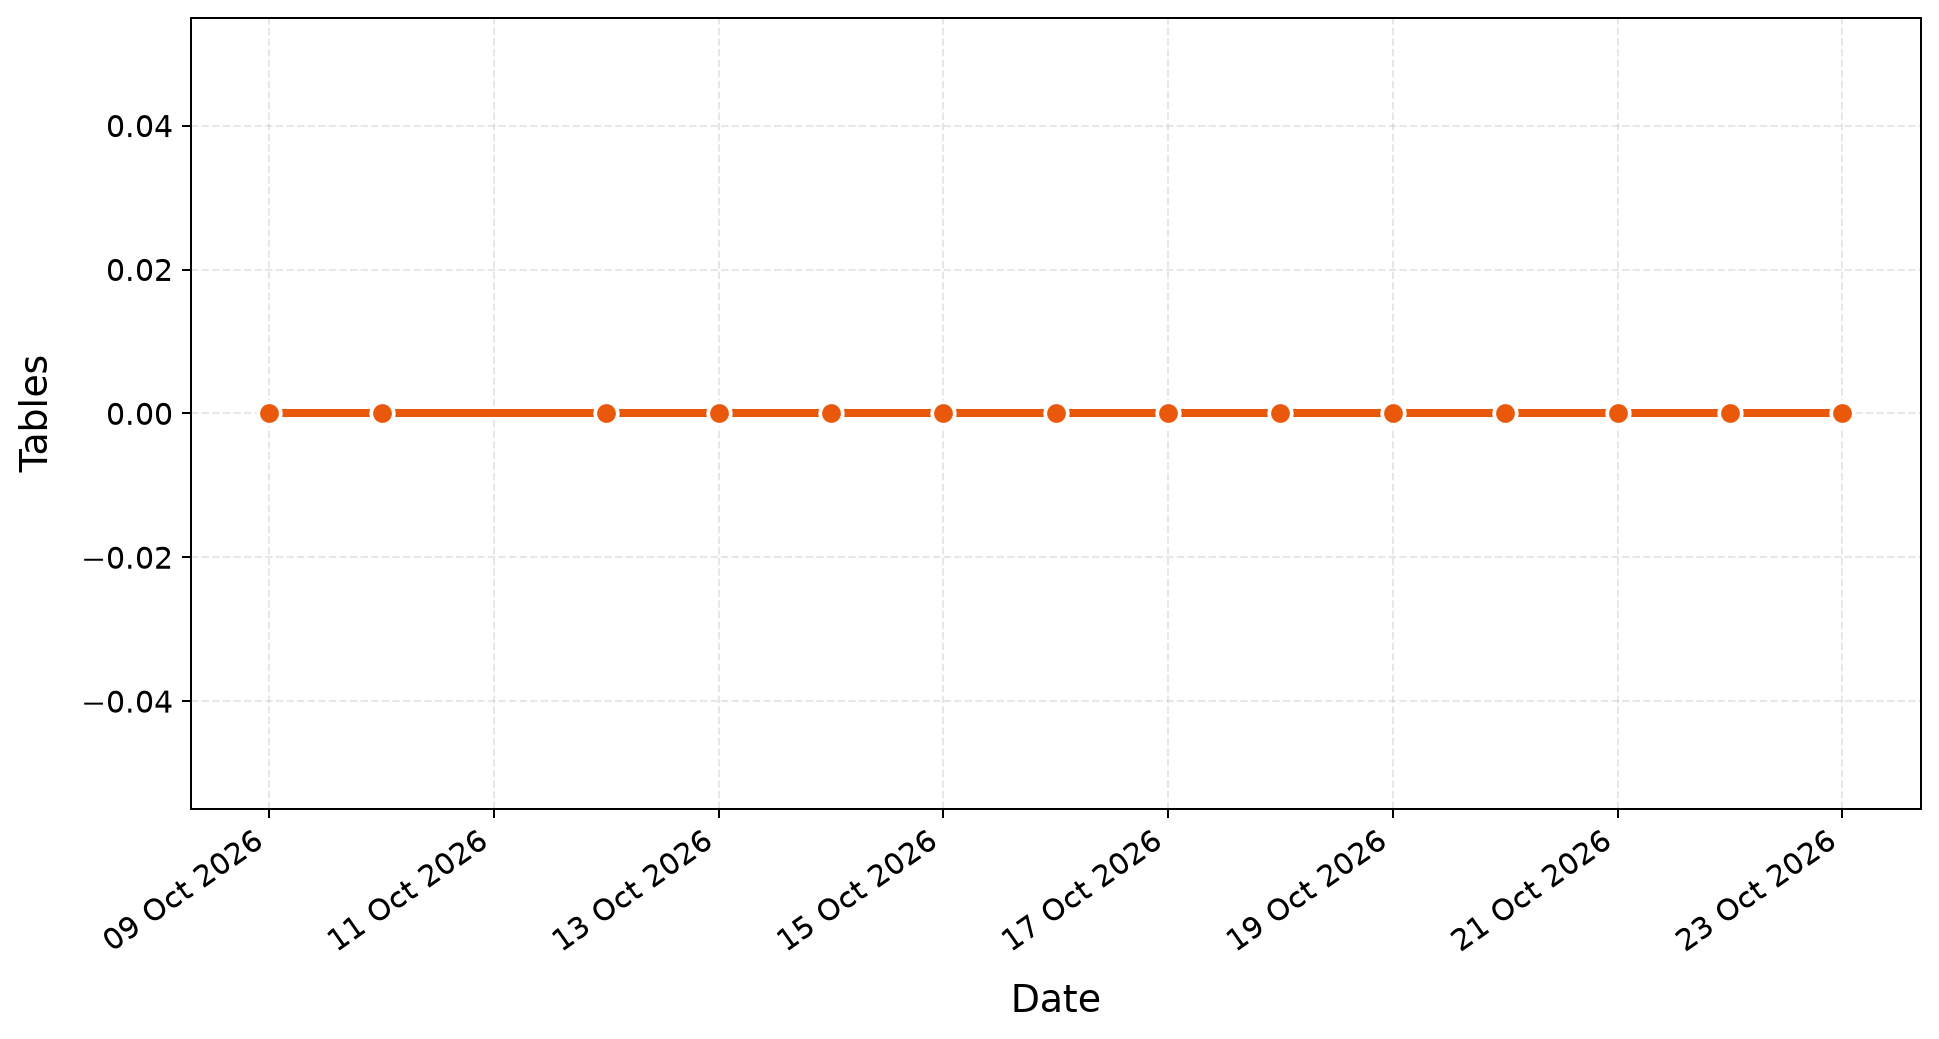
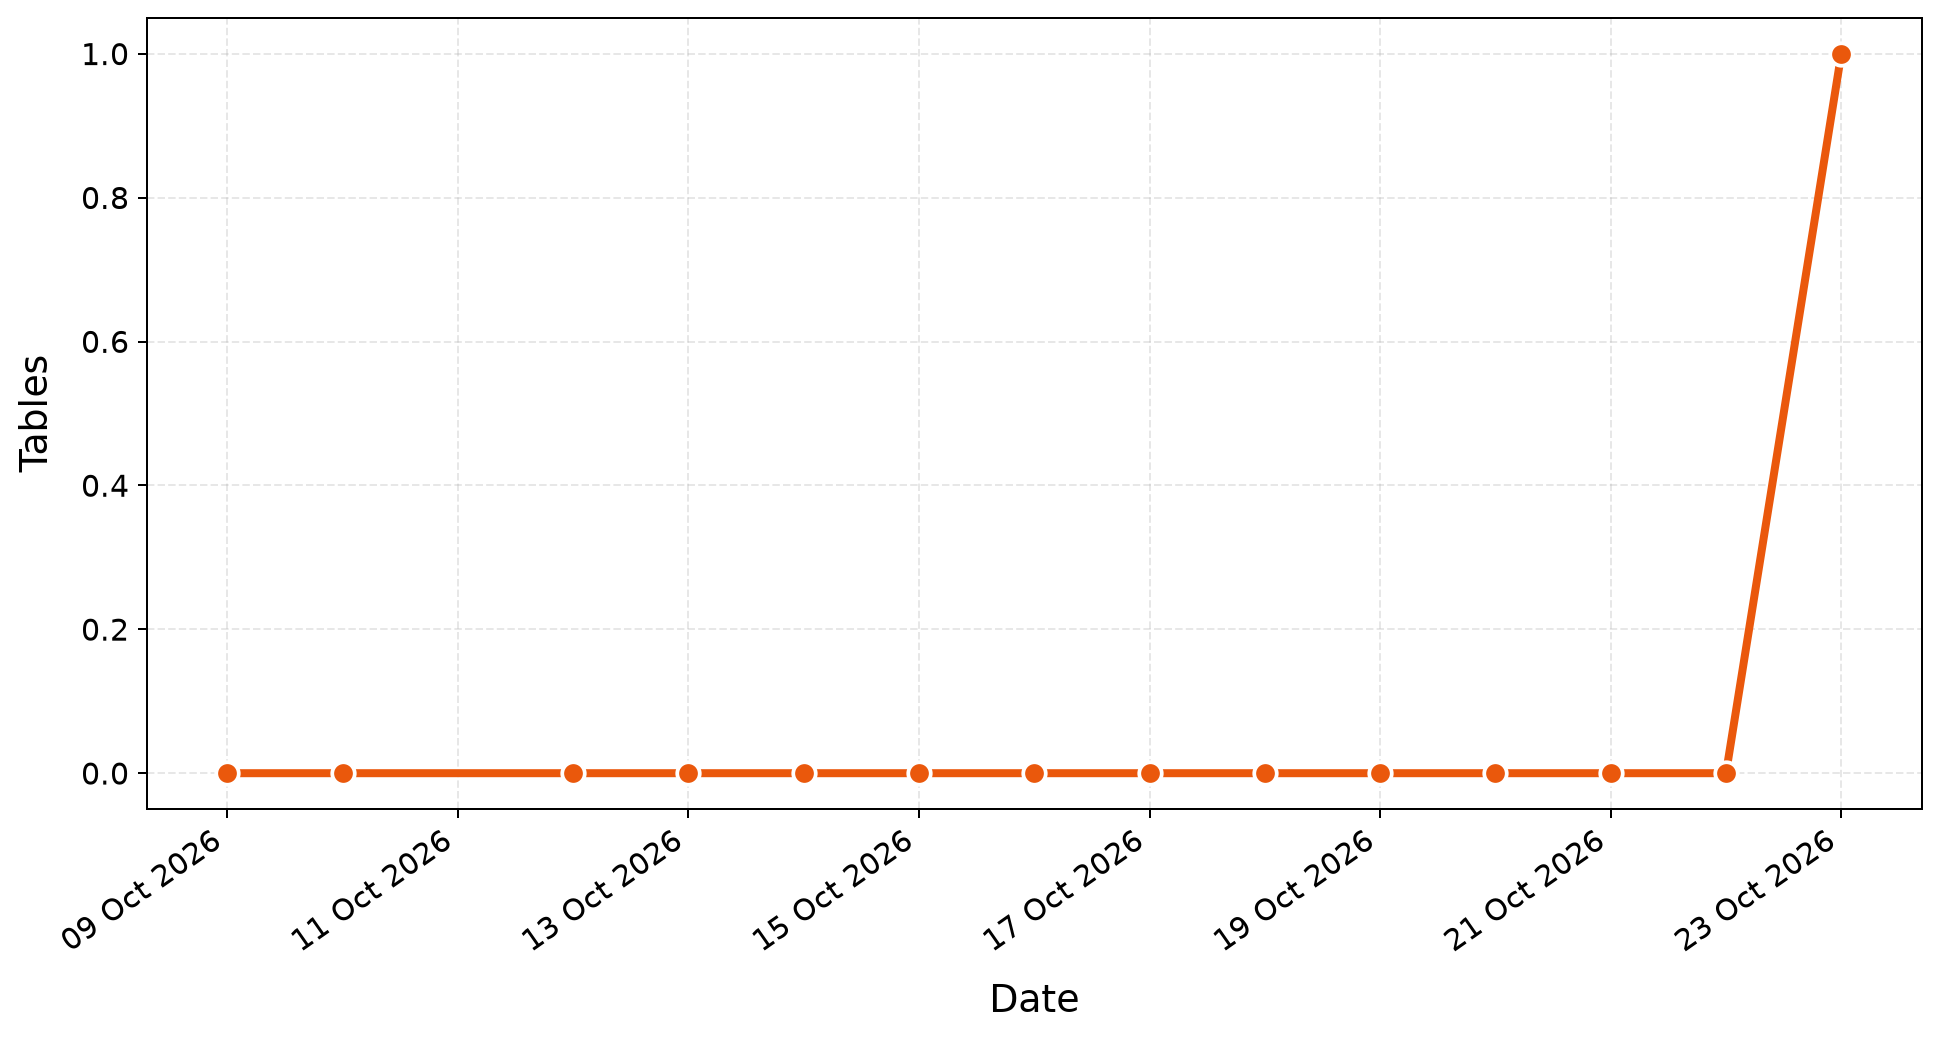
Update thesis progress dashboard

diff --git a/index.html b/index.html
@@ -12,7 +12,7 @@
     <p class="eyebrow">THESIS WRITING LOG</p>
     <h1>Thesis Progress</h1>
     <p>A visual overview of writing progress over time.</p>
-    <p class="updated">Last updated: 2026-10-23 14:04 CEST</p>
+    <p class="updated">Last updated: 2026-10-23 14:38 CEST</p>
   </header>
 
   <main>
@@ -28,10 +28,10 @@
 
         <article class="summary-card">
           <p class="summary-label">Total words</p>
-          <p class="summary-total">3,971</p>
+          <p class="summary-total">4,057</p>
           <p class="summary-change"
              style="color: #16A34A;">
-            +1,010 this week
+            +1,096 this week
           </p>
         </article>
         
@@ -58,10 +58,10 @@
 
         <article class="summary-card">
           <p class="summary-label">Total tables</p>
-          <p class="summary-total">0</p>
+          <p class="summary-total">1</p>
           <p class="summary-change"
-             style="color: #64748B;">
-            No change this week
+             style="color: #16A34A;">
+            +1 this week
           </p>
         </article>
         
